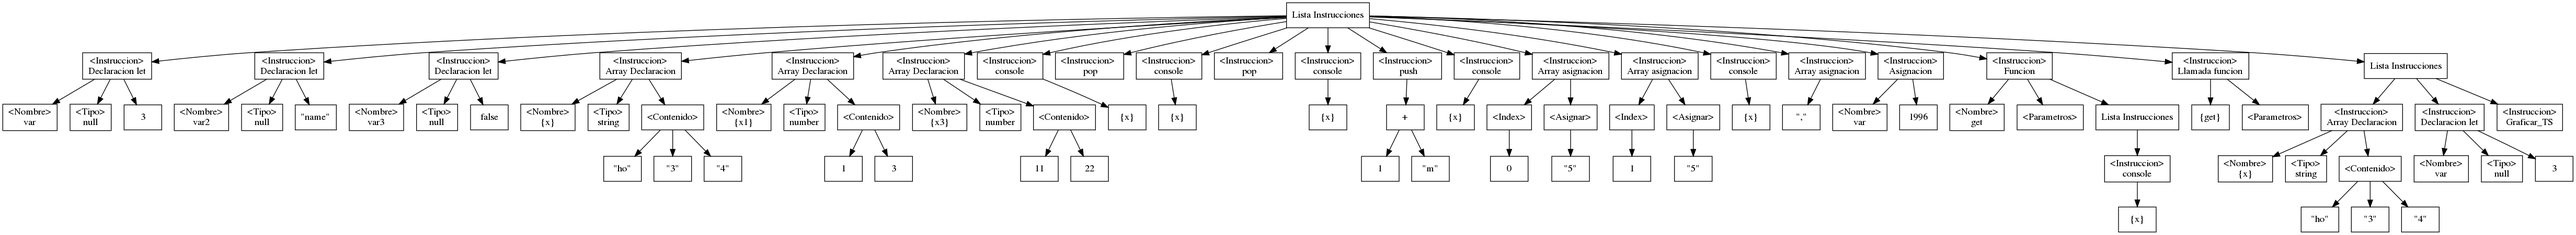
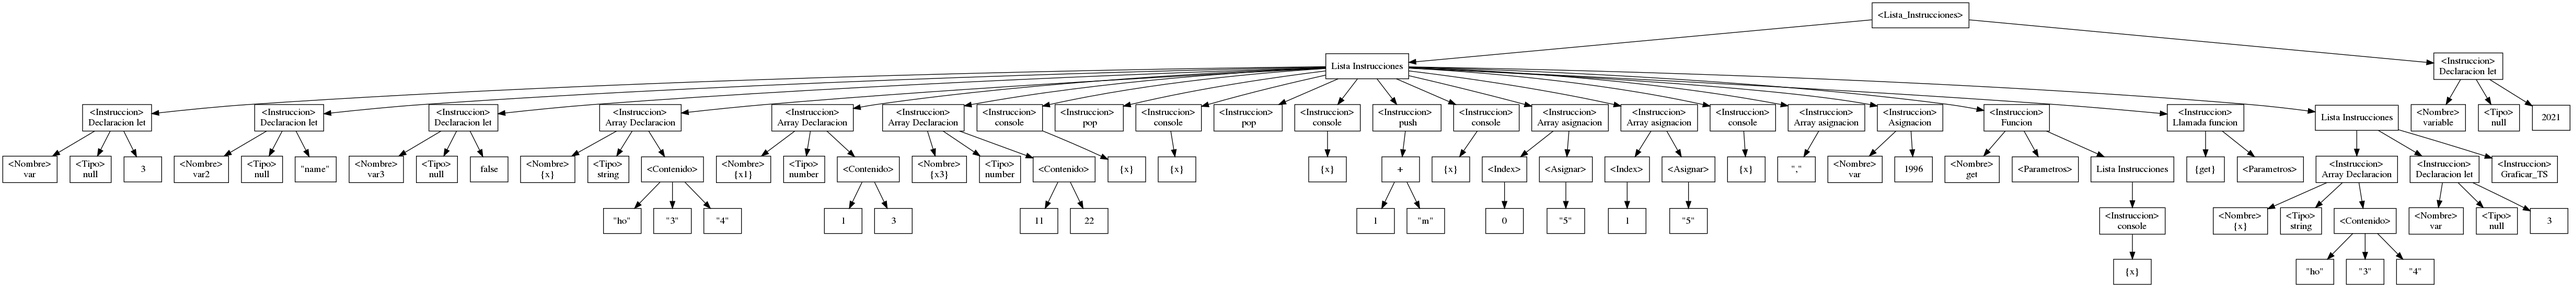
falta clase return y expresiones de array

diff --git a/src/index.ts b/src/index.ts
@@ -5,34 +5,31 @@ const parser = require('./Grammar/Grammar');
 const fs = require('fs');
 
 try {
-
-    console.log("\n\n\n\n\n\n\n\n\n\n\n\n\n\n\n\n\n\n\n\n\n\n\n\n\n\n\n\n\n\n\n\n\n\n\n\n");
     
     if (true) {
         
         const entrada = fs.readFileSync('src/entrada.txt');
         const ast = parser.parse(entrada.toString());
-        const env = new Environment(null);                      //environment padre
+        const env = new Environment(null);                     
         const s= Singleton.getInstance();
 
-        parser.ast = 'nodeOriginal[label="Lista_Instrucciones"];\n'
+        s.add_ast(`nodeOriginal[label="<\\Lista_Instrucciones\\>"];`)
 
-        //este recorrido lo que hcaer
+        //generar el ast primero
         for (const instr of ast) {
             try {
                 instr.ast();
-                parser.ast += 'nodeOriginal->node' + instr.line + '_' + instr.column + ";\n";
+                s.add_ast(`nodeOriginal->node_${instr.line}_${instr.column}_;`)
             } catch (error) {
-                parser.Lista_errores.push(error.message);
             }
         }
 
+        //recorrer las instrucciones y ejecutarlas
         for (const instruccion of ast) {
             try {
                 instruccion.execute(env);
             } catch (error) {
                 s.add_error(error)
-                
             }
         }
 
@@ -51,5 +48,5 @@ catch (error) {
 function createFile(nameFile: string, data: string) {
     fs.writeFile(nameFile, data, () => {
         console.log('>> The file ' + nameFile + ' has been saved!');
-    });
+    })
 }

diff --git a/src/Grammar/Grammar.js b/src/Grammar/Grammar.js
@@ -84,8 +84,7 @@ performAction: function anonymous(yytext, yyleng, yylineno, yy, yystate /* actio
 var $0 = $$.length - 1;
 switch (yystate) {
 case 1:
-
-        return $$[$0-1];  
+  return $$[$0-1];  
 break;
 case 2:
  $$[$0-1].push($$[$0]); this.$ = $$[$0-1]; 
@@ -606,12 +605,6 @@ _handle_error:
     const {Logical} = require('../Expression/Logical')
     const {LogicalOption} = require('../Expression/LogicalOption')
     const {ArregloAcciones} = require('../Instruction/ArregloAcciones')
-    var Lista_errores=[];
-    var pila_funciones=[];
-    var tmp="";
-    var consola="";
-    var ast="";
-    var graficarTS="";
 /* generated by jison-lex 0.3.4 */
 var lexer = (function(){
 var lexer = ({
